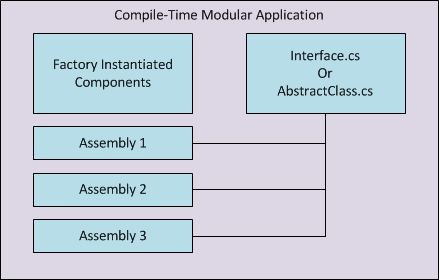
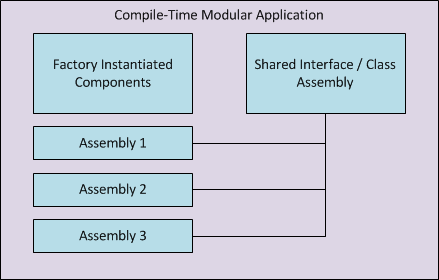
Finished Module Manager article.

Changed region(s): [[0.5626, 0.1714, 0.918, 0.3429]]

diff --git a/The Clifton Method/ModuleManager/moduleManager.htm b/The Clifton Method/ModuleManager/moduleManager.htm
@@ -124,20 +124,13 @@ must be shared.&nbsp; Why?&nbsp; Because:</p>
 <p>A monolithic application doesn't have this issue because everything is in the 
 same application solution:</p>
 <p><img border="0" src="monolithic%20app.png" width="439" height="140"></p>
-<p>Even if you write your code so that you have different projects (assemblies) 
-for your components, you can still share the same interface source code file, 
-and all is well:</p>
+<p>Once you start writing your code so that you have different projects (assemblies) 
+for your components, you must share the interface source code or abstract class 
+code in a shared assembly:</p>
 <p>
 <img border="0" src="compile-time%20modular%20application.png" width="439" height="280"></p>
-<p>Only when you start writing components as runtime loaded modules do you need 
-to think about whether you want to share an assembly of the interface, or just 
-the interface .cs file.&nbsp; Again, we ask &quot;why?&quot;&nbsp; Because you want the 
-interface to be independent of the application specific code as well.&nbsp; For 
-example, when I write a web application, I don't want to be referencing an 
-interface file in one website project for a component that I use in another 
-website project, in a completely separate folder.&nbsp; The interface definition 
-(whether .cs files or as an assembly, which of course consists of .cs files) 
-comes along for the ride:</p>
+<p>This is also true when you start writing components as runtime loaded 
+modules:</p>
 <p><img border="0" src="runtime%20modular%20app.png" width="439" height="372"></p>
 <p>Here again we see an inversion of more monolithic application development.&nbsp; 
 Rather than:</p>
@@ -390,6 +383,15 @@ protected virtual void InitializeRegistrants(List&lt;IModule&gt; registrants)
 <p>If your modules need initialization, you would derive from ModuleManager and 
 implement the specific initialization you require.</p>
 <h2>Example Program</h2>
+<p>Our demo solution consists of these four projects:</p>
+<p>
+<img border="0" src="demoSolution.png" width="289" height="105"></p>
+<ol>
+	<li>CommonInterface - This holds the IModule definition</li>
+	<li>ModuleConsoleSpeak - Emits a message to the console</li>
+	<li>ModuleManager - A console demo of the module manager</li>
+	<li>ModuleVoiceSpeak - Speaks the message using .NET's voice synthesizer</li>
+</ol>
 <p>The example program implements two &quot;speakers&quot;, one that emits a console 
 message, the other that speaks the message with .NET's speech synthesizer.&nbsp; 
 The application is quite simple:</p>
@@ -403,7 +405,14 @@ The application is quite simple:</p>
   IModule module = mgr.Modules[0];
   module.Say(&quot;Hello World.&quot;);
 }</pre>
-<p>By changing the modules.xml file, the application responds by emitting the 
+<p>Note how the application is loading the modules from the &quot;dll&quot; sub-folder:</p>
+<p><img border="0" src="dll.png" width="263" height="217"></p>
+<p>The &quot;dll&quot; folder contains the assemblies for the two modules:</p>
+<p><img border="0" src="dll2.png" width="198" height="58"></p>
+<p>Also note that a post-build step copies the module into the &quot;dll&quot; folder:</p>
+<pre>copy ModuleConsoleSpeak.dll ..\..\..\ModuleManager\bin\Debug\dll</pre>
+<pre>copy ModuleVoiceSpeak.dll ..\..\..\ModuleManager\bin\Debug\dll</pre>
+<p>Now, by changing the modules.xml file, the application responds by emitting the 
 text to the console window or by speaking it.&nbsp; To speak the text, use this:</p>
 <pre>&lt;?xml version=&quot;1.0&quot; encoding=&quot;utf-8&quot; ?&gt;
 &lt;Modules&gt;
@@ -414,6 +423,10 @@ text to the console window or by speaking it.&nbsp; To speak the text, use this:
 &lt;Modules&gt;
   &lt;Module AssemblyName='ModuleConsoleSpeak.dll'/&gt;
 &lt;/Modules&gt;</pre>
+<h3>The Application Does Not Reference the Modules</h3>
+<p>Note that in the demo application (called &quot;ModuleManager&quot;, a bad name!), 
+there is no reference to the modules we're loading:</p>
+<p><img border="0" src="refs1.png" width="273" height="219"></p>
 <h3>IModule</h3>
 <p>This implementation is for demonstration purposes only!&nbsp; See below for a 
 discussion on the IModule interface.</p>
@@ -424,8 +437,10 @@ discussion on the IModule interface.</p>
     void Say(string text);
   }
 }</pre>
-<p>Here we see the problem with runtime modular applications -- the common 
-interface must exist in a separate assembly!</p>
+<p>Here we see the problem I talked about earlier with runtime modular applications -- the common 
+interface must exist in a separate assembly!&nbsp; If you're not careful, this 
+can and will cause and explosion of assemblies that simply define interfaces and 
+other shared types.&nbsp; We'll talk about this further in other articles.</p>
 <h3>ModuleConsoleSpeak</h3>
 <pre>using System;
 
